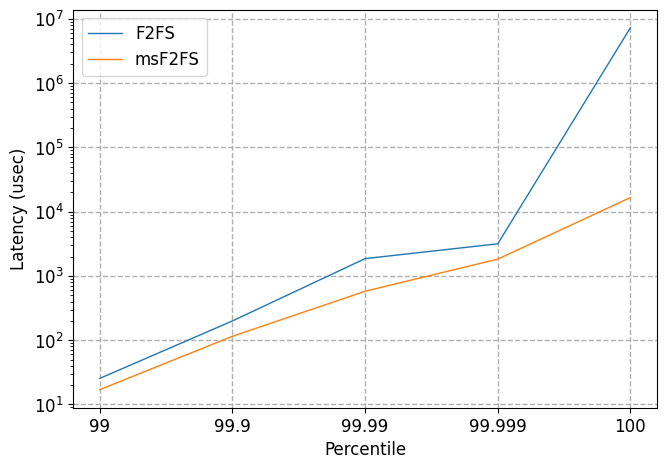
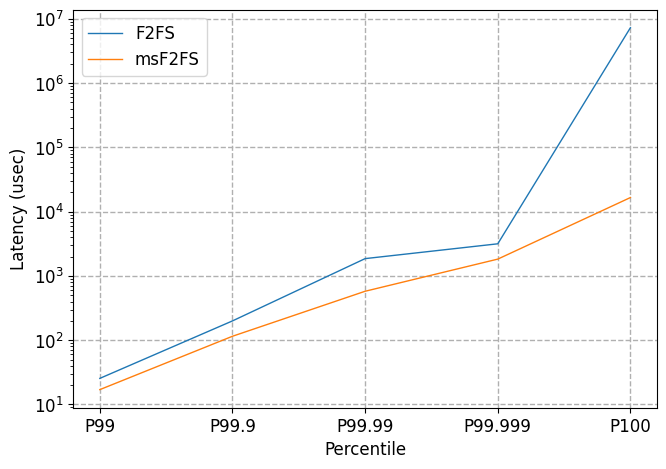
Fid update

diff --git a/gc-concurrent/plot.py b/gc-concurrent/plot.py
@@ -190,7 +190,7 @@ def plot_tail_latency():
     ax.set_axisbelow(True)
     plt.yscale("log")
     ax.xaxis.set_ticks([1,2,3,4,5])
-    ax.xaxis.set_ticklabels(["99", "99.9", "99.99", "99.999", "100"])
+    ax.xaxis.set_ticklabels(["P99", "P99.9", "P99.99", "P99.999", "P100"])
     ax.legend(loc='best')
     ax.set_xlabel("Percentile")
     ax.set_ylabel("Latency (usec)")
